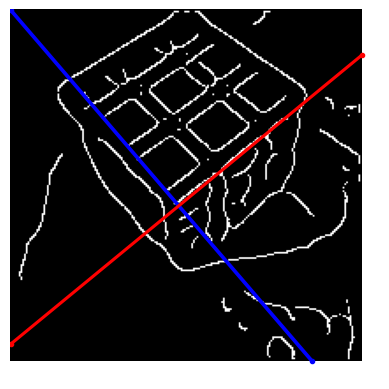
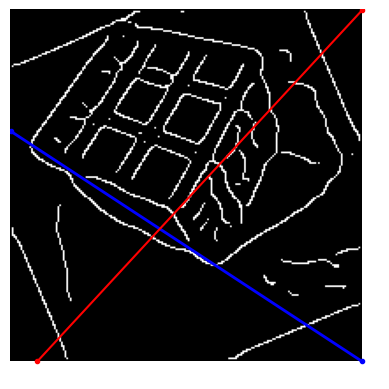
Teo e2

diff --git a/e2/e2.py b/e2/e2.py
@@ -85,6 +85,9 @@ Los aspectos del código que hacen que la solución sea tan específica son:
     - En el método compute_edges los valores del detector de Canny pueden
       variar en función de las características de la foto
       (luz, ruido, distancia...)
+    - En el método compute_Hough_space_lines se utiliza el método hough_line. Este recibe
+      un valor fijo para theta y esto puede variar en función del posicionamiento del objeto
+      en la foto.
 
 
 
